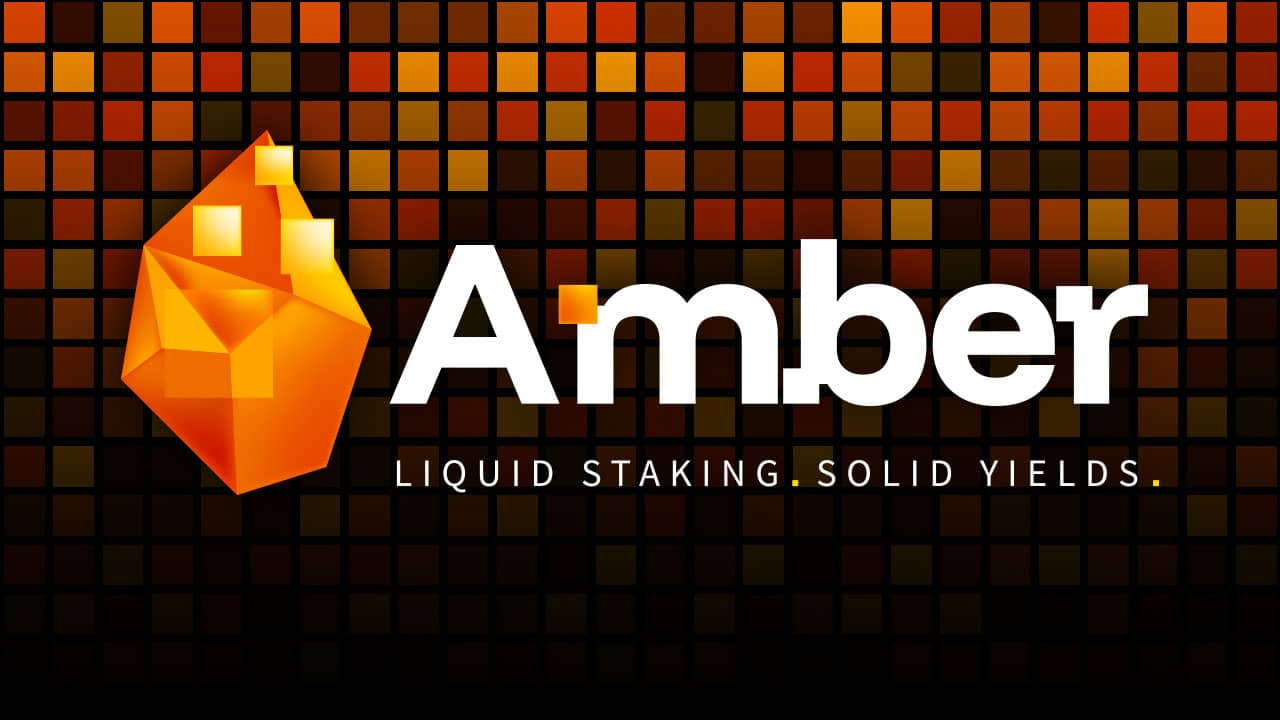
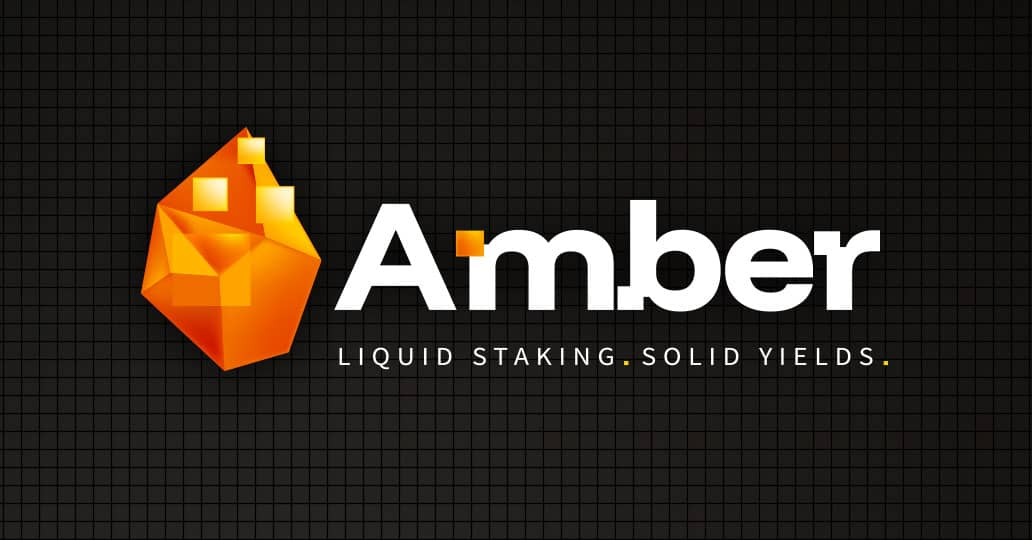
env: OG update for the landing page

diff --git a/apps/app/src/app/metadata.ts b/apps/app/src/app/metadata.ts
@@ -2,11 +2,9 @@ import { Metadata } from 'next'
 
 // Shared constants to match landing page
 const SHARED_CONFIG = {
-  siteName: 'Amber',
+  siteName: 'Amber Finance',
   baseUrl: 'https://app.amberfi.io',
   twitterHandle: '@amberfi_io',
-  bannerImage: 'https://app.amberfi.io/x-banner/default.jpg',
-  content: 'Liquid Staking. Solid Yields.',
   locale: 'en_US',
 }
 
